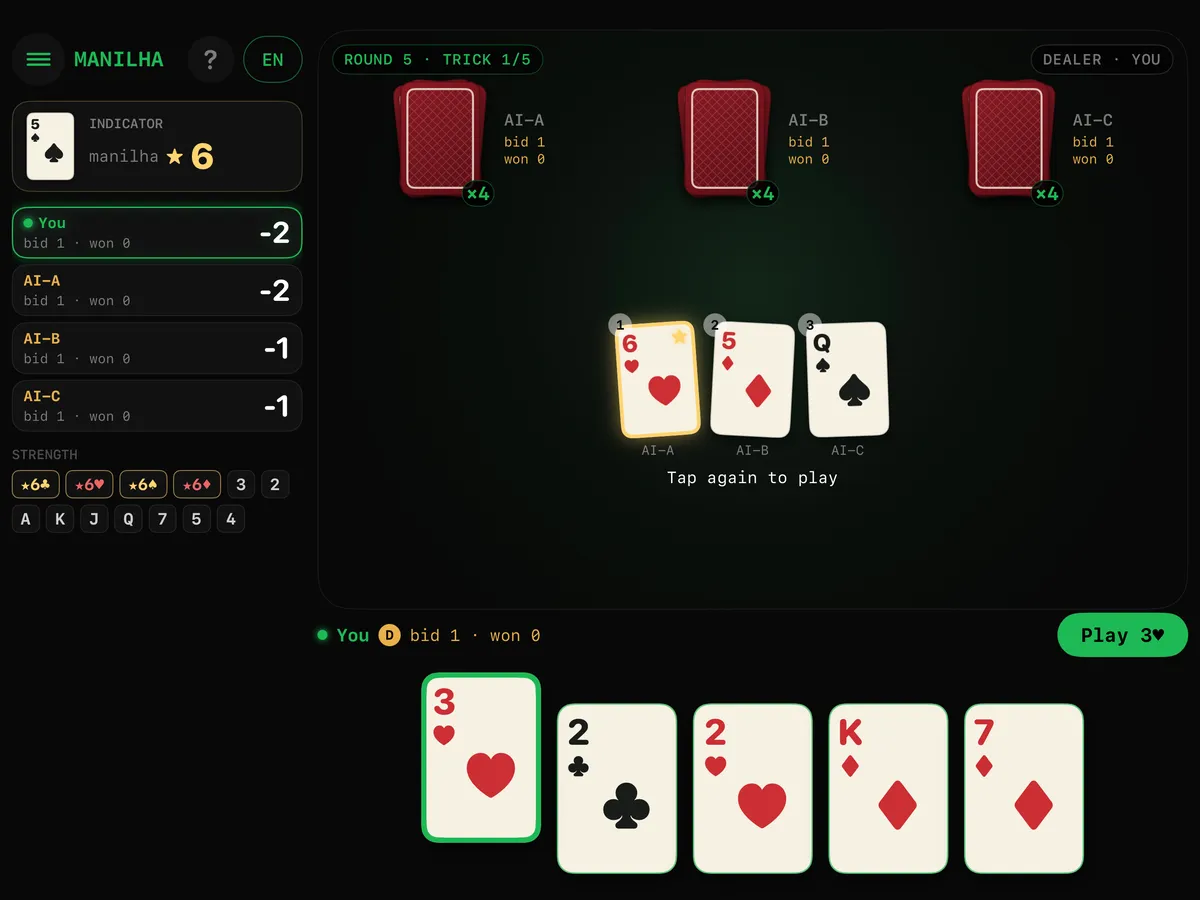
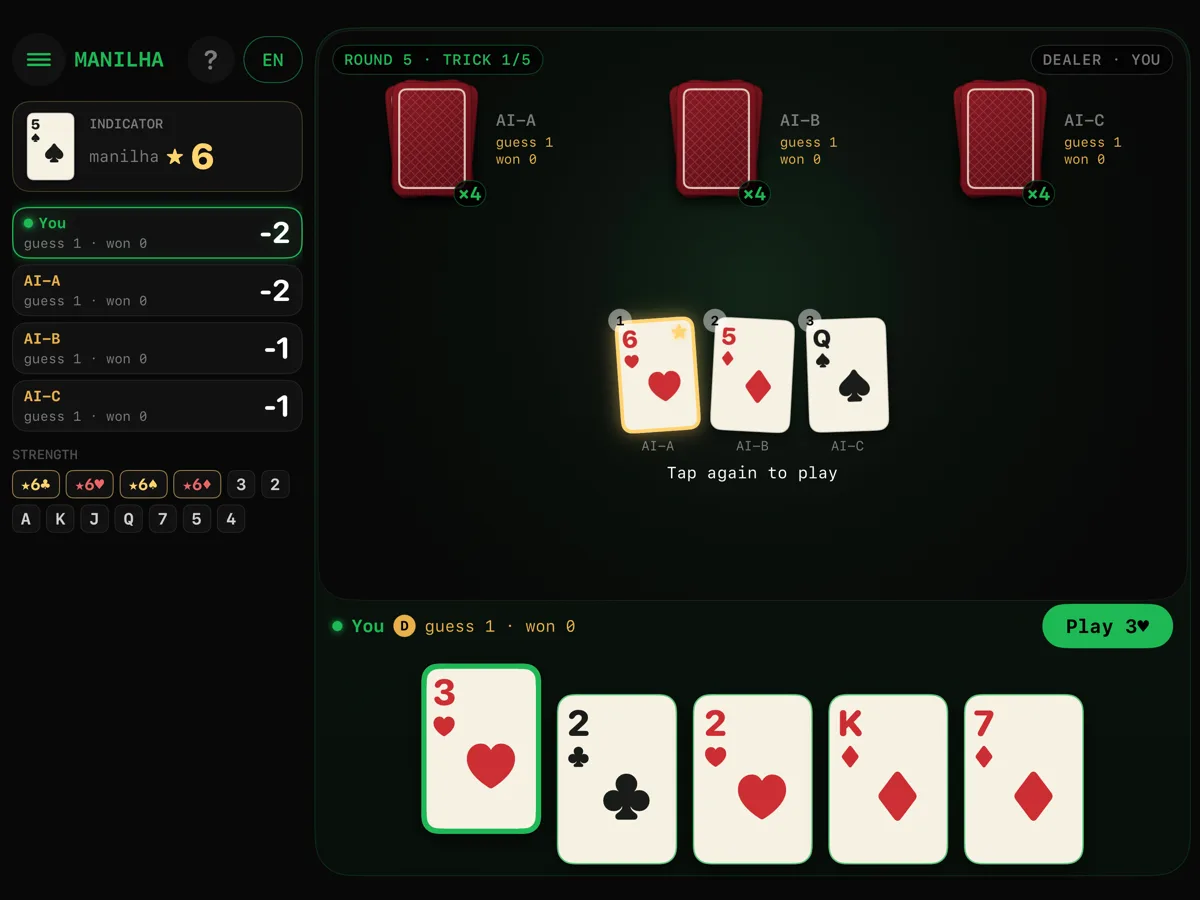
Manilha on the homepage and arcade: new screenshots, online modes, no "bid"
The iPad picture still showed "bid 1"; both pictures now come from 1.2
(the new menu, and the hand at the table's edge). The homepage lists online
play (teams of two or every player for themselves), and the arcade card says
guess-your-tricks / guessing instead of bid-and-tricks / bidding.

diff --git a/arcade.html b/arcade.html
@@ -421,9 +421,9 @@
     <img class="card-thumb" src="/game/thumbs/truco.png?v=1" alt="Manilha table — manilha cards glowing gold" loading="lazy" width="440" height="240">
     <div class="card-icon" style="color:#e8b04a">[Q]</div>
     <div class="card-title" data-en="manilha.exe" data-zh="manilha.exe">manilha.exe</div>
-    <div class="card-desc" data-en="Brazilian bid-and-tricks. Follow the visible power order, team up locally, or open an unlisted room for up to three friends—four humans total, with AI filling empty seats." data-zh="巴西叫牌赢墩。参照桌面牌力顺序，可本地组队，或创建非公开房间邀请最多三位好友——共四名玩家，空座位由电脑补上。">Brazilian bid-and-tricks. Follow the visible power order, team up locally, or open an unlisted room for up to three friends—four humans total, with AI filling empty seats.</div>
+    <div class="card-desc" data-en="Brazilian guess-your-tricks. Follow the visible power order, team up locally, or open an unlisted room for up to three friends—four humans total, in teams or every player for themselves, with AI filling empty seats." data-zh="巴西猜墩赢墩。参照桌面牌力顺序，可本地组队，或创建非公开房间邀请最多三位好友——共四名玩家，可组队也可各自为战，空座位由电脑补上。">Brazilian guess-your-tricks. Follow the visible power order, team up locally, or open an unlisted room for up to three friends—four humans total, in teams or every player for themselves, with AI filling empty seats.</div>
     <div class="card-tags">
-      <span class="tag green" data-en="bidding" data-zh="叫牌">bidding</span>
+      <span class="tag green" data-en="guessing" data-zh="猜墩">guessing</span>
       <span class="tag" data-en="manilha ★" data-zh="王权牌 ★">manilha ★</span>
       <span class="tag" data-en="blind hands" data-zh="暗牌局">blind hands</span>
       <span class="tag" data-en="2–4 online players" data-zh="2–4 名联机玩家">2–4 online players</span>

diff --git a/index.html b/index.html
@@ -467,6 +467,7 @@
         <ul class="feats">
           <li data-zh="每局一张新的王牌（manilha）：这个点数压过所有牌。">A new manilha every round: one rank beats every other card.</li>
           <li data-zh="盲牌局：你能看到所有人的牌，唯独看不到自己的。">Blind rounds: you see everyone's card except your own.</li>
+          <li data-zh="和最多三位朋友联机：2v2 组队或各自为战，用应用或浏览器都能加入。">Online with up to three friends: teams of two or every player for themselves, in the app or a browser.</li>
           <li data-zh="单人对战最多三台电脑，或两人共用一台 iPhone 或 iPad。支持英语、葡萄牙语、西班牙语和中文。">Solo against up to three computers, or two of you on one iPhone or iPad. English, Português, Español and 中文.</li>
         </ul>
         <div class="actions">
@@ -476,8 +477,8 @@
         </div>
       </div>
       <figure class="shots mix low">
-        <div class="frame tablet"><img src="/assets/apps/manilha-ipad.webp" alt="Manilha on iPad: your hand of cards below the table, the manilha indicator on the left" width="1200" height="900" loading="lazy"></div>
-        <div class="frame side"><img src="/assets/apps/manilha-2.webp" alt="Manilha on iPhone: the lobby, with 1, 2 or 3 computer opponents or two players against two" width="1400" height="644" loading="lazy"></div>
+        <div class="frame tablet"><img src="/assets/apps/manilha-ipad.webp?v=2" alt="Manilha on iPad: your hand of cards at the edge of the table, the manilha indicator on the left" width="1200" height="900" loading="lazy"></div>
+        <div class="frame side"><img src="/assets/apps/manilha-2.webp?v=2" alt="Manilha on iPhone: the menu, with 1, 2 or 3 computer opponents, online play, or two players against two" width="1400" height="644" loading="lazy"></div>
       </figure>
     </article>
 
